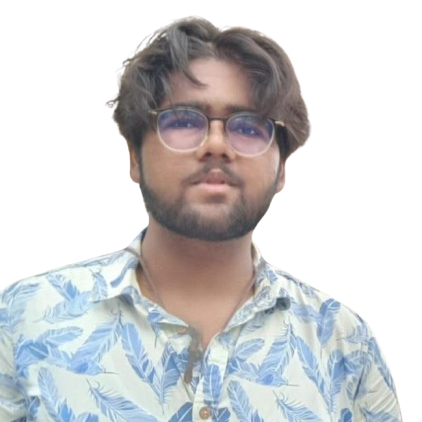
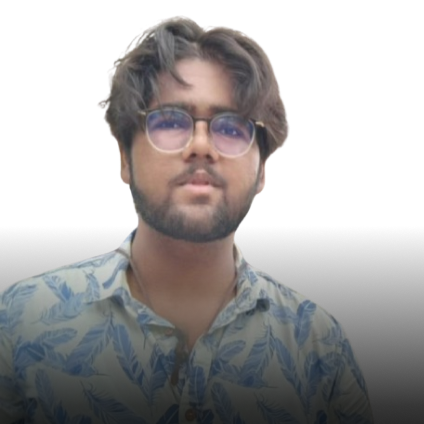
replaced images

diff --git a/components/landing/client-section.tsx b/components/landing/client-section.tsx
@@ -37,6 +37,8 @@ const Icon = () => (
   </svg>
 );
 
+
+
 const Skeleton = ({ index }: { index?: number }) => (
   <div
     className={ny(
@@ -150,54 +152,58 @@ const ClientSection = () => (
     </div>
 
     <h2 className="pt-20 text-center text-sm font-semibold text-gray-600">WEBPAGES CRAFTED BY</h2>
-    <div className="grid grid-cols-2 w-full gap-2 max-w-2xl mx-auto md:grid-cols-2">
-      {[
-        {
-          name: 'Rushil Vishwakarma',
-          title: 'Web-Development Co-Head',
-          imageSrc: '/rushil.png', // Image for Rushil
-          alt: 'Rushil Vishwakarma',
-        },
-        {
-          name: 'Deeptanshu Lal',
-          title: 'GDG Leaderboard Creator',
-          imageSrc: '/deeptanshu.png', // Image for Deeptanshu
-          alt: 'Deeptanshu Lal',
-        },
-      ].map((member) => (
-        <div
-          key={member.name}
-          className="border border-black/[0.2] dark:border-white/[0.2] flex flex-col items-center justify-center p-3 relative h-[16rem] sm:h-[20rem] mt-7 m-2"
-        >
-          {/* Corner Icons */}
-          <CornerIcon className="absolute h-6 w-6 -top-3 -left-3 dark:text-white text-black" />
-          <CornerIcon className="absolute h-6 w-6 -bottom-3 -left-3 dark:text-white text-black" />
-          <CornerIcon className="absolute h-6 w-6 -top-3 -right-3 dark:text-white text-black" />
-          <CornerIcon className="absolute h-6 w-6 -bottom-3 -right-3 dark:text-white text-black" />
+<div className="grid grid-cols-2 w-full gap-2 max-w-2xl mx-auto md:grid-cols-2">
+  {[
+    {
+      name: 'Rushil Vishwakarma',
+      title: 'Web-Development Co-Head',
+      imageSrc: '/rushil.png',
+      alt: 'Rushil Vishwakarma',
+    },
+    {
+      name: 'Deeptanshu Lal',
+      title: 'GDG Leaderboard Creator',
+      imageSrc: '/deeptanshu.png',
+      alt: 'Deeptanshu Lal',
+    },
+  ].map((member) => (
+    <div
+      key={member.name}
+      className="border border-black/[0.2] dark:border-white/[0.2] flex flex-col items-center justify-center relative mt-7 m-2"
+    >
+      {/* Corner Icons */}
+      <CornerIcon className="absolute h-6 w-6 -top-3 -left-3 dark:text-white text-black" />
+      <CornerIcon className="absolute h-6 w-6 -bottom-3 -left-3 dark:text-white text-black" />
+      <CornerIcon className="absolute h-6 w-6 -top-3 -right-3 dark:text-white text-black" />
+      <CornerIcon className="absolute h-6 w-6 -bottom-3 -right-3 dark:text-white text-black" />
 
-          {/* Member Name */}
-          <h1 className="text-left animate-fade-in bg-gradient-to-br from-black from-60% to-black/20 bg-clip-text pt-5 text-xl sm:text-2xl font-bold leading-none tracking-tighter text-transparent opacity-0 [--animation-delay:200ms] dark:from-white dark:to-white/40">
-            {member.name.split(' ')[0]}{' '}
-            <span className="block sm:inline">{member.name.split(' ')[1]}</span>
-          </h1>
+      {/* Member Name */}
+      <h1 className="text-left animate-fade-in bg-gradient-to-br from-black from-60% to-black/20 bg-clip-text pt-5 text-xl sm:text-2xl font-bold leading-none tracking-tighter text-transparent opacity-0 [--animation-delay:200ms] dark:from-white dark:to-white/40">
+        {member.name.split(' ')[0]}{' '}
+        <span className="block sm:inline">{member.name.split(' ')[1]}</span>
+      </h1>
 
-          {/* Member Title */}
-          <p className="text-[9px] sm:text-sm border font-light dark:border-white/[0.2] border-black/[0.1] rounded-full mt-2 mb-1 text-black dark:text-white px-2 py-0.5">
-            {member.title}
-          </p>
+      {/* Member Title */}
+      <p className="text-[9px] sm:text-sm border font-light dark:border-white/[0.2] border-black/[0.1] rounded-full mt-2 mb-1 text-black dark:text-white px-2 py-0.5">
+        {member.title}
+      </p>
 
-          {/* Member Image */}
-          <div className="flex justify-center items-center w-full h-full">
-            <Image
-              alt={member.alt}
-              src={member.imageSrc}
-              width={150}
-              height={150}
-            />
-          </div>
-        </div>
-      ))}
+      {/* Member Image */}
+      <div className="flex justify-center items-center w-full h-full">
+        <Image
+          alt={member.alt}
+          src={member.imageSrc}
+          layout="responsive" // This ensures the image takes up the full width of the container
+          width={150}
+          height={150}
+          className="w-full h-auto object-cover" // These classes ensure the image scales correctly
+        />
+      </div>
     </div>
+  ))}
+</div>
+
+
   </section>
 );
 

diff --git a/components/site-header.tsx b/components/site-header.tsx
@@ -99,13 +99,15 @@ export function SiteHeader() {
    return (
       <>
 <header className="animate-fade-in fixed left-0 top-0 z-50 w-full -translate-y-4 border-b opacity-0 backdrop-blur-md [--animation-delay:600ms]">
-   <div className="container flex h-14 items-center justify-between">
+   <div className="container flex h-14 items-center justify-start">
       <Link className="text-md flex items-center" href="/">
-         <img
-            src="/favicon.png"
-            className="text-primary h-8 w-8 object-contain" // Ensure the height and width are explicitly defined
-            alt="Logo"
-         />
+      <img
+   src="/favicon.png"
+   className="text-primary h-8 w-8 max-w-none max-h-none object-contain"
+   style={{ aspectRatio: '1/1' }} // Ensure the aspect ratio remains consistent
+   alt="Logo"
+/>
+
       </Link>
 
                {/*
